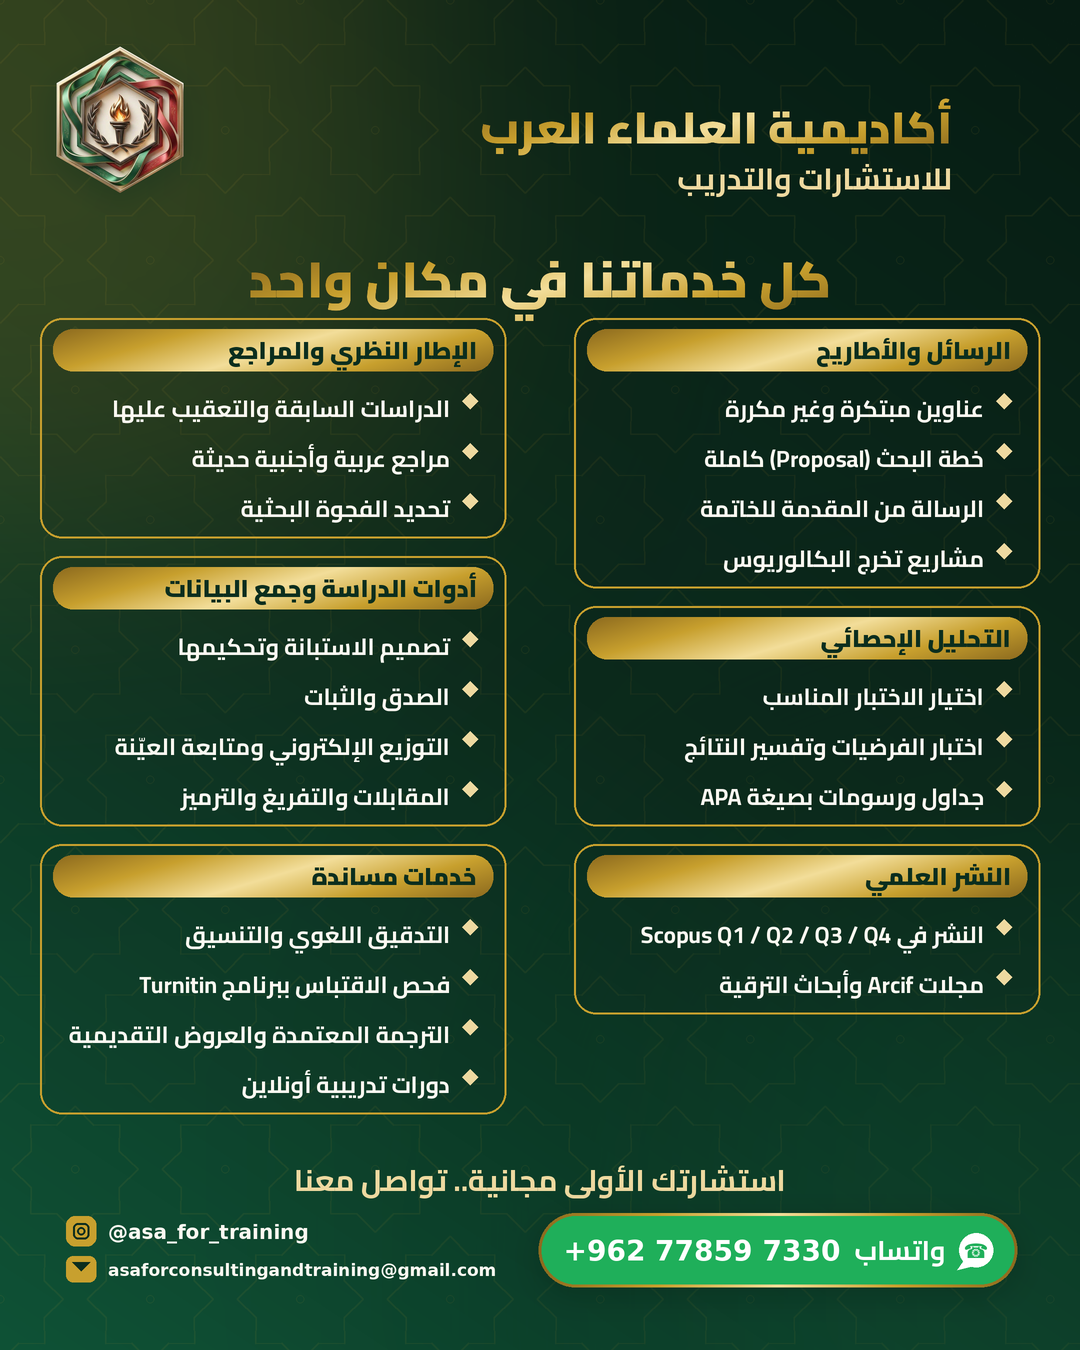
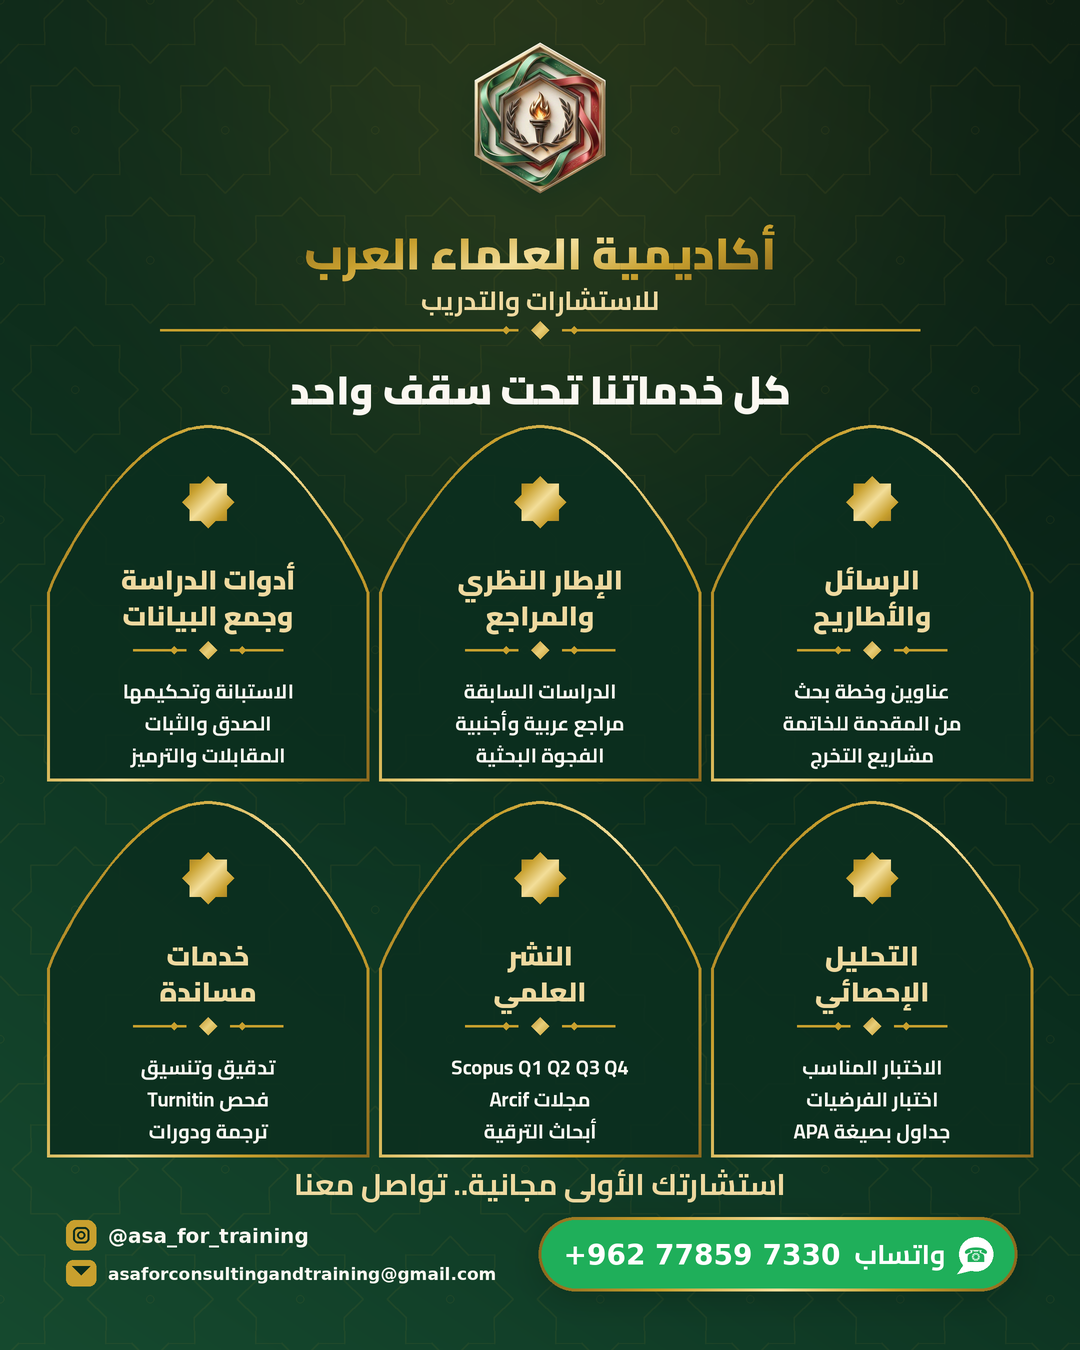
Give each brand's services poster its own idea
The owner was right that the two posters were one template in two
palettes. A shared grid with different colours is not two identities.

Each poster is now built on an idea the brand's own name or world
gives it. المنهجية means the method, the way through, so its services
are stations along one ribbon that runs from the first idea at the
bottom to the defence at the top. The academy's world is scholarly and
architectural -- girih, gold rule, the mihrab arch already in its reel
engine -- so its services are a colonnade of six arched bays under one
gold lintel.

Both files now say in their docstring that they must not converge, so
the next edit does not quietly rebuild one in the other's shape.

Placement fixes found by looking at the renders: route labels crossed
the ribbon, so the ribbon is held to a narrow central band and the
labels sit in fixed columns outside it; the "starts here"/"ends here"
captions collided with the subtitle and the footer and are gone; and
each bay's gold rule sat on its title's second line.

Claude-Session: https://claude.ai/code/session_01FFq9XD3M119dMCobFVh9uH

Changed region(s): [[0.0, 0.0, 0.9778, 0.9644], [0.0917, 0.3422, 0.1222, 0.3733]]

diff --git a/asa/engine/services_poster.py b/asa/engine/services_poster.py
@@ -1,104 +1,116 @@
 """
-The all-services poster for أكاديمية العلماء العرب.
+The all-services poster for أكاديمية العلماء العرب — an arcade.
 
     python3 asa/engine/services_poster.py asa/posts/ads-02/asa-services.png
 
-One 1080 x 1350 card listing every service, grouped so a researcher finds their
-own problem in it at a glance. Built from the brand kit: emerald and gold,
-Cairo, the girih field and the standard footer.
+This brand's world is scholarly and architectural: girih geometry, gold rule,
+the mihrab arch already in its reel engine. So its services are a colonnade —
+six arched niches under one gold-ruled header, read like the bays of a riwaq.
+
+It must not share a layout with المنهجية's poster, which is a route map. Two
+posters in the same grid with different palettes is not two identities.
 """
+import math
 import os
 import sys
 
+from PIL import Image, ImageDraw
+
 sys.path.insert(0, os.path.dirname(os.path.abspath(__file__)))
 import kit  # noqa: E402
-from kit import C, GOLD, Canvas, font  # noqa: E402
+from kit import C, GOLD, Canvas, font, rgb, s  # noqa: E402
 
-GROUPS = [
-    ("الرسائل والأطاريح", [
-        "عناوين مبتكرة وغير مكررة",
-        "خطة البحث (Proposal) كاملة",
-        "الرسالة من المقدمة للخاتمة",
-        "مشاريع تخرج البكالوريوس",
-    ]),
-    ("الإطار النظري والمراجع", [
-        "الدراسات السابقة والتعقيب عليها",
-        "مراجع عربية وأجنبية حديثة",
-        "تحديد الفجوة البحثية",
-    ]),
-    ("أدوات الدراسة وجمع البيانات", [
-        "تصميم الاستبانة وتحكيمها",
-        "الصدق والثبات",
-        "التوزيع الإلكتروني ومتابعة العيّنة",
-        "المقابلات والتفريغ والترميز",
-    ]),
-    ("التحليل الإحصائي", [
-        "اختيار الاختبار المناسب",
-        "اختبار الفرضيات وتفسير النتائج",
-        "جداول ورسومات بصيغة APA",
-    ]),
-    ("النشر العلمي", [
-        "النشر في Scopus Q1 / Q2 / Q3 / Q4",
-        "مجلات Arcif وأبحاث الترقية",
-    ]),
-    ("خدمات مساندة", [
-        "التدقيق اللغوي والتنسيق",
-        "فحص الاقتباس ببرنامج Turnitin",
-        "الترجمة المعتمدة والعروض التقديمية",
-        "دورات تدريبية أونلاين",
-    ]),
+# Six bays. Short titles: an arch is narrow and the eye reads it as a label.
+BAYS = [
+    ("الرسائل\nوالأطاريح", ["عناوين وخطة بحث", "من المقدمة للخاتمة", "مشاريع التخرج"]),
+    ("الإطار النظري\nوالمراجع", ["الدراسات السابقة", "مراجع عربية وأجنبية", "الفجوة البحثية"]),
+    ("أدوات الدراسة\nوجمع البيانات", ["الاستبانة وتحكيمها", "الصدق والثبات", "المقابلات والترميز"]),
+    ("التحليل\nالإحصائي", ["الاختبار المناسب", "اختبار الفرضيات", "جداول بصيغة APA"]),
+    ("النشر\nالعلمي", ["Scopus Q1 Q2 Q3 Q4", "مجلات Arcif", "أبحاث الترقية"]),
+    ("خدمات\nمساندة", ["تدقيق وتنسيق", "فحص Turnitin", "ترجمة ودورات"]),
 ]
+
+
+def arch_mask(size, box, rise=0.52):
+    """A pointed mihrab: straight jambs, then two arcs meeting at an apex."""
+    x0, y0, x1, y1 = box
+    w = x1 - x0
+    spring = y0 + w * rise
+    m = Image.new("L", size, 0)
+    d = ImageDraw.Draw(m)
+    d.rectangle([s(x0), s(spring), s(x1), s(y1)], fill=255)
+    pts = [(x0, spring)]
+    steps = 40
+    for i in range(steps + 1):                      # left jamb up to the apex
+        t = i / steps
+        pts.append((x0 + w / 2 * t, spring - (spring - y0) * math.sin(t * math.pi / 2) ** 0.85))
+    for i in range(steps + 1):                      # apex down to the right jamb
+        t = i / steps
+        pts.append((x0 + w / 2 + w / 2 * t,
+                    y0 + (spring - y0) * (1 - math.cos(t * math.pi / 2) ** 0.85)))
+    pts.append((x1, spring))
+    d.polygon([(s(x), s(y)) for x, y in pts], fill=255)
+    return m
 
 
 def main(out):
     c = Canvas()
-    c.gradient_bg([C["night"], C["deep"], C["emerald"]], 118)
-    c.girih(alpha=20)
-    c.glow(140, 250, 400, C["gold"], 55)
-    c.glow(950, 1150, 400, C["emerald"], 70)
+    c.gradient_bg([C["night"], C["deep"], C["forest"]], 118)
+    c.girih(alpha=18)
+    c.glow(540, 160, 460, C["gold"], 42)
 
-    c.logo(120, 120, 128)
-    c.text((952, 86), "أكاديمية العلماء العرب", font("cairo", 44, 900),
-           gradient=GOLD, angle=20, anchor="ra")
-    c.text((952, 150), "للاستشارات والتدريب", font("cairo", 30, 700),
-           fill=C["gold_lt"], anchor="ra")
-
-    c.text((540, 232), "كل خدماتنا في مكان واحد", font("cairo", 50, 900),
+    # --- header band, closed by a gold rule: the lintel over the arcade
+    c.logo(540, 118, 132)
+    c.text((540, 212), "أكاديمية العلماء العرب", font("cairo", 44, 900),
            gradient=GOLD, angle=18, anchor="ma")
+    c.text((540, 276), "للاستشارات والتدريب", font("cairo", 26, 700),
+           fill=C["gold_lt"], anchor="ma")
+    c.divider(540, 330, 760)
+    c.text((540, 352), "كل خدماتنا تحت سقف واحد", font("cairo", 40, 900),
+           fill=C["ivory"], anchor="ma")
 
-    # Two columns, right first (RTL); each group lands in whichever column is
-    # currently shorter so the two sides finish level.
-    col_w, gap = 466, 18
-    xs = {0: 1080 - 40 - col_w, 1: 40}
-    tops = {0: 318, 1: 318}
+    # --- the arcade: two rows of three bays
+    cols, rows = 3, 2
+    bw, bh = 316, 350
+    gx, gy = 16, 26
+    x0 = (1080 - (cols * bw + (cols - 1) * gx)) / 2
+    y0 = 428
 
-    for title, items in GROUPS:
-        col = 0 if tops[0] <= tops[1] else 1
-        x, y = xs[col], tops[col]
-        h = 56 + len(items) * 50 + 14
+    for i, (title, items) in enumerate(BAYS):
+        r, col = divmod(i, cols)
+        col = cols - 1 - col                         # fill right to left (RTL)
+        bx = x0 + col * (bw + gx)
+        by = y0 + r * (bh + gy)
+        box = (bx, by, bx + bw, by + bh)
 
-        c.shape("round", (x, y, x + col_w, y + h), fill="#FFFFFF", opacity=22, radius=22)
-        c.shape("round", (x, y, x + col_w, y + h), outline=C["gold"], width=2, radius=22)
-        bar_top, bar_h = y + 11, 42
-        c.shape("round", (x + 13, bar_top, x + col_w - 13, bar_top + bar_h), gradient=GOLD,
-                angle=18, radius=20)
-        c.text((x + col_w - 29, bar_top + bar_h / 2), title, font("cairo", 24, 900),
-               fill=C["deep"], anchor="rm")
+        m = arch_mask(c.im.size, box)
+        c.paste_masked(Image.new("RGBA", c.im.size, rgb(C["deep"])[:3] + (225,)), m)
+        # gold rim: the same arch, one step larger, minus the bay itself
+        outer = arch_mask(c.im.size, (bx - 3, by - 3, bx + bw + 3, by + bh + 3))
+        rim = Image.composite(outer, Image.new("L", c.im.size, 0),
+                              Image.eval(m, lambda v: 255 - v))
+        c.paste_masked(c.grad_for(rim, GOLD, 30), rim)
 
-        yy = y + 56 + 12
+        cx = bx + bw / 2
+        c.star8(cx, by + 74, 26, gradient=GOLD)
+
+        ty = by + 126
+        for ln in title.split("\n"):
+            c.text((cx, ty), ln, font("cairo", 27, 900), fill=C["gold_lt"], anchor="ma")
+            ty += 36
+        c.divider(cx, ty + 24, 150)
+
+        iy = ty + 46
         for it in items:
-            c.diamond(x + col_w - 36, yy + 15, 8, fill=C["gold_lt"])
-            c.text((x + col_w - 56, yy + 1), it, font("cairo", 23, 700),
-                   fill=C["ivory"], anchor="ra")
-            yy += 50
-        tops[col] = y + h + gap
+            c.text((cx, iy), it, font("cairo", 20, 700), fill=C["ivory"], anchor="ma")
+            iy += 32
 
-    bottom = max(tops.values()) - gap
-    assert bottom < 1150, f"cards reach {bottom}px and would hit the footer"
+    bottom = y0 + rows * bh + (rows - 1) * gy
+    assert bottom < 1190, f"the arcade reaches {bottom}px and would hit the footer"
 
-    c.footer(y=1250, dark=True, cta="استشارتك الأولى مجانية.. تواصل معنا")
+    c.footer(y=1254, dark=True, cta="استشارتك الأولى مجانية.. تواصل معنا")
     c.save(out)
-    print("wrote", out, f"(cards end at {bottom}px)")
+    print("wrote", out, f"(arcade ends at {bottom}px)")
 
 
 if __name__ == "__main__":

diff --git a/engine/services_poster.py b/engine/services_poster.py
@@ -1,92 +1,108 @@
 """
-The all-services poster for المنهجية.
+The all-services poster for المنهجية — a route map.
 
     python3 engine/services_poster.py posts/ads-02/manhajiya-services.png
 
-One 1080 x 1350 card listing every service the brand offers, grouped so a
-researcher can find their own problem in it at a glance. Built from the brand
-kit, so palette, fonts, logo badge and footer match everything else.
+The brand is called "المنهجية": the method, the way through. So the services are
+not a grid of cards — they are stations along one ribbon that runs from the first
+idea at the bottom to the defence at the top, and the reader's eye travels it.
+The academy's poster is built on a different idea entirely; these two must never
+be the same layout in two palettes.
 """
+import math
 import os
 import sys
 
+from PIL import Image, ImageDraw, ImageFilter
+
 sys.path.insert(0, os.path.dirname(os.path.abspath(__file__)))
 import kit  # noqa: E402
-from kit import C, RING, Canvas, font  # noqa: E402
+from kit import C, RING, Canvas, font, linear_gradient, rgb, s  # noqa: E402
 
-GROUPS = [
-    ("الرسائل والأطاريح", [
-        "اقتراح عناوين مبتكرة وغير مكررة",
-        "إعداد خطة البحث (Proposal) كاملة",
-        "الرسالة كاملة من المقدمة للخاتمة",
-        "مشاريع تخرج البكالوريوس",
-    ]),
-    ("الدعم المنهجي وجمع البيانات", [
-        "توزيع الاستبانات عبر Google Forms",
-        "بيانات بورصة عمّان المالية يدوياً",
-        "المراجع والدراسات السابقة",
-        "إعداد أدوات الدراسة وتحكيمها",
-    ]),
-    ("التحليل الإحصائي والبرمجة", [
-        "التحليل الإحصائي وتفسير النتائج",
-        "ربط النتائج بالفرضيات",
-        "خدمات البرمجة والدعم التقني",
-    ]),
-    ("النشر العلمي", [
-        "النشر في Scopus Q1 / Q2 / Q3 / Q4",
-        "مجلات Arcif وأبحاث الترقية",
-        "استلال أبحاث النشر من الرسائل",
-    ]),
-    ("خدمات مساندة", [
-        "التدقيق اللغوي والتنسيق",
-        "فحص الاقتباس ببرنامج Turnitin",
-        "الترجمة المعتمدة والعروض التقديمية",
-        "دورات تدريبية أونلاين",
-    ]),
+# Each station: (number, title, the two or three things we actually do there)
+STATIONS = [
+    ("١", "العنوان والخطة", ["عناوين مبتكرة غير مكررة", "خطة بحث (Proposal) كاملة"]),
+    ("٢", "الإطار والمراجع", ["الدراسات السابقة والتعقيب", "مراجع عربية وأجنبية"]),
+    ("٣", "الأدوات وجمع البيانات", ["استبانات وتحكيمها", "بيانات بورصة عمّان يدوياً"]),
+    ("٤", "التحليل الإحصائي", ["اختبار الفرضيات", "تفسير النتائج وربطها"]),
+    ("٥", "النشر العلمي", ["Scopus Q1 / Q2 / Q3 / Q4", "مجلات Arcif وأبحاث الترقية"]),
+    ("٦", "التسليم والمناقشة", ["تدقيق لغوي وفحص اقتباس", "ترجمة وعروض تقديمية"]),
 ]
+
+
+# The ribbon stays inside a narrow central band and the labels live in fixed
+# columns outside it, so a label can never cross the route however the curve runs.
+AMP, TOP, BOT = 150, 404, 1092
+COL_R, COL_L = 712, 368
+
+
+def ribbon_points():
+    """A gentle S that snakes up the middle, from the first idea to the defence."""
+    pts = []
+    for i in range(0, 241):
+        t = i / 240
+        y = BOT - t * (BOT - TOP)
+        x = 540 + AMP * math.sin(t * math.pi * 2.6 + 0.4)
+        pts.append((x, y))
+    return pts
+
+
+def station_y(i, n):
+    return BOT - 40 - i * ((BOT - TOP - 80) / (n - 1))
+
+
+def ribbon_x(y, pts):
+    return min(pts, key=lambda p: abs(p[1] - y))[0]
 
 
 def main(out):
     c = Canvas()
-    c.gradient_bg([C["night"], "#3A1250", C["purple"]], 118)
-    c.glow(150, 230, 420, C["magenta"], 90)
-    c.glow(950, 1180, 420, C["violet"], 80)
-    c.dots(820, 90, 7, 3, color="#FFFFFF", alpha=70)
-    c.dots(70, 1250, 7, 3, color="#FFFFFF", alpha=55)
+    c.gradient_bg([C["night"], "#3A1250", C["purple"]], 120)
+    c.glow(120, 1180, 430, C["magenta"], 95)
+    c.glow(980, 300, 420, C["violet"], 85)
+    c.dots(820, 72, 7, 3, color="#FFFFFF", alpha=65)
+    c.dots(62, 1268, 7, 3, color="#FFFFFF", alpha=50)
 
-    c.logo(118, 118, 128)
-    c.text((952, 92), "المنهجية", font("kufi", 54, 900), fill="#FFFFFF", anchor="ra")
-    c.text((952, 168), "للخدمات البحثية والعلمية", font("almarai", 30), fill="#E3D3F0", anchor="ra")
+    # --- the route itself: a thick ribbon filled with the brand's ring gradient
+    pts = ribbon_points()
+    mask = Image.new("L", c.im.size, 0)
+    ImageDraw.Draw(mask).line([(s(x), s(y)) for x, y in pts], fill=255,
+                              width=s(16), joint="curve")
+    halo = mask.filter(ImageFilter.GaussianBlur(s(13)))
+    c.paste_masked(Image.new("RGBA", c.im.size, rgb(C["magenta"])[:3] + (90,)), halo)
+    c.paste_masked(c.grad_for(mask, RING, 60), mask)
 
-    c.text((540, 246), "كل خدماتنا في مكان واحد", font("kufi", 50, 900),
-           gradient=RING, angle=20, anchor="ma")
+    # --- header
+    c.logo(116, 116, 126)
+    c.text((956, 90), "المنهجية", font("kufi", 52, 900), fill="#FFFFFF", anchor="ra")
+    c.text((956, 162), "للخدمات البحثية والعلمية", font("almarai", 28), fill="#E3D3F0", anchor="ra")
+    c.text((540, 238), "خريطة رسالتك", font("kufi", 56, 900), gradient=RING, angle=20, anchor="ma")
+    c.text((540, 328), "من أول فكرة حتى يوم المناقشة", font("almarai", 28),
+           fill="#D9C6EA", anchor="ma")
 
-    # Two columns, right first (RTL). Each group goes into whichever column is
-    # currently shorter, so the two sides finish level instead of one running long.
-    col_w, gap = 466, 20
-    xs = {0: 1080 - 40 - col_w, 1: 40}
-    tops = {0: 325, 1: 325}
+    # --- stations: dot on the route, label in the fixed column on its side
+    for i, (num, title, items) in enumerate(STATIONS):
+        py = station_y(i, len(STATIONS))
+        px = ribbon_x(py, pts)
+        right = i % 2 == 0
 
-    for title, items in GROUPS:
-        col = 0 if tops[0] <= tops[1] else 1
-        x, y = xs[col], tops[col]
-        h = 54 + len(items) * 49 + 16
+        r = 36
+        c.shape("ellipse", (px - r - 7, py - r - 7, px + r + 7, py + r + 7),
+                fill=C["night"], opacity=235)
+        c.shape("ellipse", (px - r, py - r, px + r, py + r), gradient=RING, angle=45)
+        c.text((px, py + 1), num, font("kufi", 32, 900), fill="#FFFFFF", anchor="mm")
 
-        c.shape("round", (x, y, x + col_w, y + h), fill="#FFFFFF", opacity=28, radius=24)
-        c.shape("round", (x, y, x + col_w, y + h), outline="#B583DC", width=2, radius=24)
-        c.shape("round", (x + 14, y + 12, x + col_w - 14, y + 12 + 42), gradient=RING,
-                angle=20, radius=21)
-        c.text((x + col_w - 30, y + 20), title, font("kufi", 26, 900), fill="#FFFFFF", anchor="ra")
-
-        yy = y + 54 + 13
+        tx = COL_R if right else COL_L
+        anc = "la" if right else "ra"
+        c.text((tx, py - 42), title, font("kufi", 29, 900), fill="#FFFFFF", anchor=anc)
+        yy = py + 2
         for it in items:
-            c.shape("ellipse", (x + col_w - 42, yy + 9, x + col_w - 28, yy + 23), fill=C["yellow"])
-            c.text((x + col_w - 56, yy + 2), it, font("almarai", 24), fill="#F3EAF9", anchor="ra")
-            yy += 49
-        tops[col] = y + h + gap
+            bx = tx + 6 if right else tx - 6
+            c.shape("ellipse", (bx - 5, yy + 9, bx + 5, yy + 19), fill=C["yellow"])
+            c.text((tx + 22 if right else tx - 22, yy), it, font("almarai", 22),
+                   fill="#EFE4F7", anchor=anc)
+            yy += 34
 
-    bottom = max(tops.values()) - gap
-    assert bottom < 1150, f"cards reach {bottom}px and would hit the footer"
     c.footer(y=1236, dark=True, cta="استشارتك الأولى مجانية.. راسلنا الآن")
     c.save(out)
     print("wrote", out)
